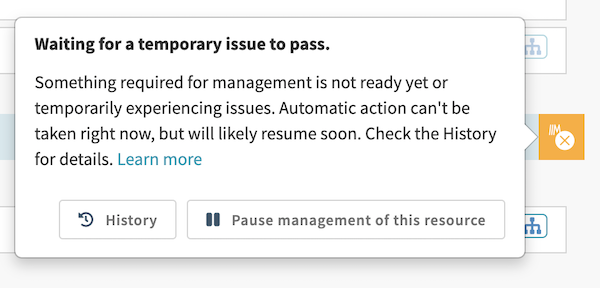
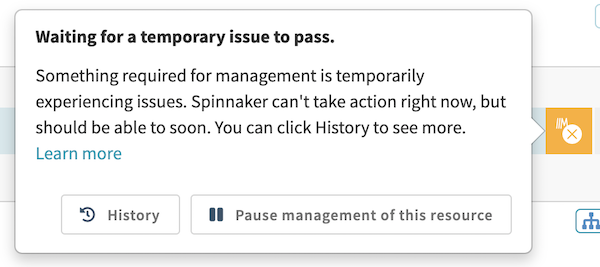
docs(managed): new resource status screenshots, copy tweaks

diff --git a/guides/user/managed-delivery/resource-status/index.md b/guides/user/managed-delivery/resource-status/index.md
@@ -13,7 +13,7 @@ redirect_from: /reference/managed-delivery/resource-status/
 ## Overview
 Managed resources always have a **status**, which describes the current state of the resource from Spinnaker's perspective. A resource's status can help you quickly answer questions like:
   - Is Spinnaker taking automatic action on this resource right now?
-  - Does the actual state of this resource match the declarative configuration I gave to Spinnaker?
+  - Does the actual state of this resource match the desired state I gave to Spinnaker?
   - Is something wrong with this resource?
 
 ## How to find a resource's status
@@ -50,13 +50,13 @@ Example response:
   image_path="./resource-status-created.png"
 %}
 
-When a resource has this status, it means Spinnaker has just received the resource’s declarative configuration and hasn't taken any action yet.
+When a resource has this status, it means Spinnaker has just received the resource’s desired state and hasn't taken any action yet.
 
-If the actual state of the resource matches the declarative configuration, the resource will transition to the [Happy](/guides/user/managed-delivery/resource-status/#happy) status the next time Spinnaker checks it.
+If the actual state of the resource matches the desired state, the resource will transition to the [Happy](/guides/user/managed-delivery/resource-status/#happy) status the next time Spinnaker checks it.
 
-If Spinnaker detects a drift from the declarative configuration in the future, the resource will change status to [Diff](/guides/user/managed-delivery/resource-status/#diff). Once Spinnaker starts taking automatic action to correct the drift, the status will change to [Actuating](/guides/user/managed-delivery/resource-status/#actuating).
+If Spinnaker detects a difference from the desired state in the future, the resource will change status to [Diff](/guides/user/managed-delivery/resource-status/#diff). Once Spinnaker starts taking automatic action to correct the difference, the status will change to [Actuating](/guides/user/managed-delivery/resource-status/#actuating).
 
-While Spinnaker is managing a resource, manual changes made via the UI or the API will be automatically reversed ("stomped") in favor of the declarative configuration.
+While Spinnaker is managing a resource, manual changes made via the UI or the API will be automatically reversed ("stomped") in favor of the desired state.
 
 ### Diff
 {%
@@ -65,11 +65,11 @@ While Spinnaker is managing a resource, manual changes made via the UI or the AP
   image_path="./resource-status-diff.png"
 %}
 
-When a resource has this status, it means Spinnaker detected a drift from the declarative configuration but hasn't taken any action yet.
+When a resource has this status, it means Spinnaker detected a difference from the desired state but hasn't taken any action yet.
 
-Once Spinnaker starts taking automatic action to correct the drift, the status  changes to [Actuating](/guides/user/managed-delivery/resource-status/#actuating).
+Once Spinnaker starts taking automatic action to correct the difference, the status  changes to [Actuating](/guides/user/managed-delivery/resource-status/#actuating).
 
-While Spinnaker is managing a resource, manual changes made via the UI or the API are automatically reversed ("stomped") in favor of the declarative configuration.
+While Spinnaker is managing a resource, manual changes made via the UI or the API are automatically reversed ("stomped") in favor of the desired state.
 
 ### Actuating
 {%
@@ -78,11 +78,11 @@ While Spinnaker is managing a resource, manual changes made via the UI or the AP
   image_path="./resource-status-actuating.png"
 %}
 
-When a resource has this status, it means Spinnaker detected a drift from the declarative configuration and automatic action is in progress to resolve it. You can click on "History" to see details about the detected drift and the specific tasks Spinnaker launched, along with whether they succeeded or failed.
+When a resource has this status, it means Spinnaker detected a difference from the desired state and automatic action is in progress to resolve it. You can click on "History" to see details about the detected difference and the specific tasks Spinnaker launched, along with whether they succeeded or failed.
 
-If automatic actions successfully resolve the drift, the status will change to [Happy](/guides/user/managed-delivery/resource-status/#happy). If automatic actions don't help to resolve the drift, the status will change to [Unhappy](/guides/user/managed-delivery/resource-status/#unhappy).
+If automatic actions successfully resolve the difference, the status will change to [Happy](/guides/user/managed-delivery/resource-status/#happy). If automatic actions don't help to resolve the difference, the status will change to [Unhappy](/guides/user/managed-delivery/resource-status/#unhappy).
 
-While Spinnaker is managing a resource, manual changes made via the UI or the API will be automatically reversed ("stomped") in favor of the declarative configuration.
+While Spinnaker is managing a resource, manual changes made via the UI or the API will be automatically reversed ("stomped") in favor of the desired state.
 
 ### Happy
 {%
@@ -91,11 +91,11 @@ While Spinnaker is managing a resource, manual changes made via the UI or the AP
   image_path="./resource-status-happy.png"
 %}
 
-When a resource has this status, all is well and the actual state of the resource matches its declarative configuration.
+When a resource has this status, all is well and the actual state of the resource matches its desired state.
 
-If Spinnaker detects a drift from the declarative configuration in the future, the resource status will change to [Diff](/guides/user/managed-delivery/resource-status/#diff). Once Spinnaker starts taking automatic action to correct the drift, the status will change to [Actuating](/guides/user/managed-delivery/resource-status/#actuating).
+If Spinnaker detects a difference from the desired state in the future, the resource status will change to [Diff](/guides/user/managed-delivery/resource-status/#diff). Once Spinnaker starts taking automatic action to correct the difference, the status will change to [Actuating](/guides/user/managed-delivery/resource-status/#actuating).
 
-While Spinnaker is managing a resource, manual changes made via the UI or the API will be automatically reversed ("stomped") in favor of the declarative configuration.
+While Spinnaker is managing a resource, manual changes made via the UI or the API will be automatically reversed ("stomped") in favor of the desired state.
 
 ### Unhappy
 {%
@@ -104,11 +104,11 @@ While Spinnaker is managing a resource, manual changes made via the UI or the AP
   image_path="./resource-status-unhappy.png"
 %}
 
-When a resource has this status, it means Spinnaker detected a drift from the declarative configuration but hasn't been able to resolve it through automatic actions. This might mean that the actions Spinnaker has taken are failing, or something else is preventing the actions from having their desired effect.
+When a resource has this status, it means Spinnaker detected a difference from the desired state but hasn't been able to resolve it through automatic actions. This might mean that the actions Spinnaker has taken are failing, or something else is preventing the actions from having their desired effect.
 
-While a resource is Unhappy, Spinnaker will continue trying to resolve the drift and may eventually succeed. If it does, the resource will transition to the [Happy](/guides/user/managed-delivery/resource-status/#happy) status.
+While a resource is Unhappy, Spinnaker will continue trying to resolve the difference and may eventually succeed. If it does, the resource will transition to the [Happy](/guides/user/managed-delivery/resource-status/#happy) status.
 
-You can click on "History" to see the detected drift along with actions Spinnaker is taking. If you decide manual intervention is needed to remedy any issues you might discover, you can temporarily pause management by clicking "Pause management of this resource" or by pausing the entire application on the Config view for your app.
+You can click on "History" to see the detected difference along with actions Spinnaker is taking. If you decide manual intervention is needed to remedy any issues you might discover, you can temporarily pause management by clicking "Pause management of this resource" or by pausing the entire application on the Environments view for your app.
 
 ### Paused
 {%
@@ -117,7 +117,7 @@ You can click on "History" to see the detected drift along with actions Spinnake
   image_path="./resource-status-paused.png"
 %}
 
-When a resource has this status, it means Spinnaker is configured to continuously manage the resource but you've chosen to temporarily pause management. While management is paused Spinnaker won't check for drift from the declarative configuration, and it won't take any automatic actions. Depending on whether you've paused the specific resource or the entire application, you can either click "Resume management of this resource" or go to the Config view in your app to resume management.
+When a resource has this status, it means Spinnaker is configured to continuously manage the resource but you've chosen to temporarily pause management. While management is paused Spinnaker won't check for difference from the desired state, and it won't take any automatic actions. Depending on whether you've paused the specific resource or the entire application, you can either click "Resume management of this resource" or go to the Environments view in your app to resume management.
 
 When you resume management the status will change to [Resumed](/guides/user/managed-delivery/resource-status/#resumed).
 
@@ -128,9 +128,9 @@ When you resume management the status will change to [Resumed](/guides/user/mana
   image_path="./resource-status-resumed.png"
 %}
 
-When a resource has this status, it means management was just resumed after being temporarily paused and Spinnaker hasn't checked for drift from the declarative configuration yet.
+When a resource has this status, it means management was just resumed after being temporarily paused and Spinnaker hasn't checked for difference from the desired state yet.
 
-If a drift is detected, the status will change to [Diff](/guides/user/managed-delivery/resource-status/#diff). If no drift is detected, the status will change to [Happy](/guides/user/managed-delivery/resource-status/#unhappy).
+If a difference is detected, the status will change to [Diff](/guides/user/managed-delivery/resource-status/#diff). If no difference is detected, the status will change to [Happy](/guides/user/managed-delivery/resource-status/#unhappy).
 
 ### Currently unresolvable
 {%
@@ -139,12 +139,23 @@ If a drift is detected, the status will change to [Diff](/guides/user/managed-de
   image_path="./resource-status-currently-unresolvable.png"
 %}
 
-When a resource has this status, it means something Spinnaker requires to properly manage the resource is either not ready yet or temporarily experiencing disruption. Automatic action won't be taken while in this status, but it doesn't necessarily mean something is broken. Some examples of things that might lead to a resource entering this status:
-
-  - A downstream system (like a container registry or cloud provider) temporarily rate limiting or experiencing availability issues
-  - A required part of the resource's desired state (like a VM image) not being available yet
+When a resource has this status, it means something Spinnaker requires to properly manage the resource is temporarily experiencing disruption. Automatic action won't be taken while in this status. The most common cause of this status is a downstream system — like a container registry or cloud provider — temporarily rate limiting or experiencing availability issues.
 
 If you see this status and want to investigate the cause, you can click "History" to view additional details and understand what else was happening when the issue began. While you may decide to take some action as a result of this status, it's unlikely the issue requires manual intervention. Once the issue is resolved the resource will transition to whatever status is applicable at the time based on its desired state.
+
+### Missing dependency
+{%
+  include
+  figure
+  image_path="./resource-status-missing-dependency.png"
+%}
+
+When a resource has this status, it means something Spinnaker requires to properly manage the resource doesn't exist or is not ready yet. Automatic action won't be taken while in this status, but this doesn't indicate that something is broken. Some examples of things that might lead to a resource entering this status:
+
+  - A required part of the resource's desired state (like a VM image) not being available yet
+  - A separate resource or entity the resource depends on (like a firewall or load balancer) does not yet exist
+
+If you see this status and want to investigate the cause, you can click "History" to view additional details and understand what else was happening when the issue began. While you may decide to take some action as a result of this status, it does not always require manual intervention — for example if Spinnaker is already creating the necessary dependencies for you. Once the issue is resolved the resource will transition to whatever status is applicable at the time based on its desired state.
 
 ### Error
 {%
@@ -153,10 +164,10 @@ If you see this status and want to investigate the cause, you can click "History
   image_path="./resource-status-error.png"
 %}
 
-When a resource has this status, it means something went wrong while trying to check the resource for drift from its declarative configuration. Because something went wrong, Spinnaker can't take automatic actions and drift from the declarative configuration won't be resolved (until something changes). Some examples of problems that might lead to an error status:
+When a resource has this status, it means something went wrong while trying to check the resource for difference from its desired state. Because something went wrong, Spinnaker can't take automatic actions and difference from the desired state won't be resolved (until something changes). Some examples of problems that might lead to an error status:
 
   - A problem retrieving or processing information about the current state of the resource
-  - A problem with the declarative configuration (invalid settings, etc.)
+  - A problem with the desired state (invalid settings, etc.)
   - A bug or issue with Spinnaker itself
 
 After an error, Spinnaker will continue trying to check the resource and may eventually succeed. If it does, the resource will transition to whatever status is applicable at that time.
